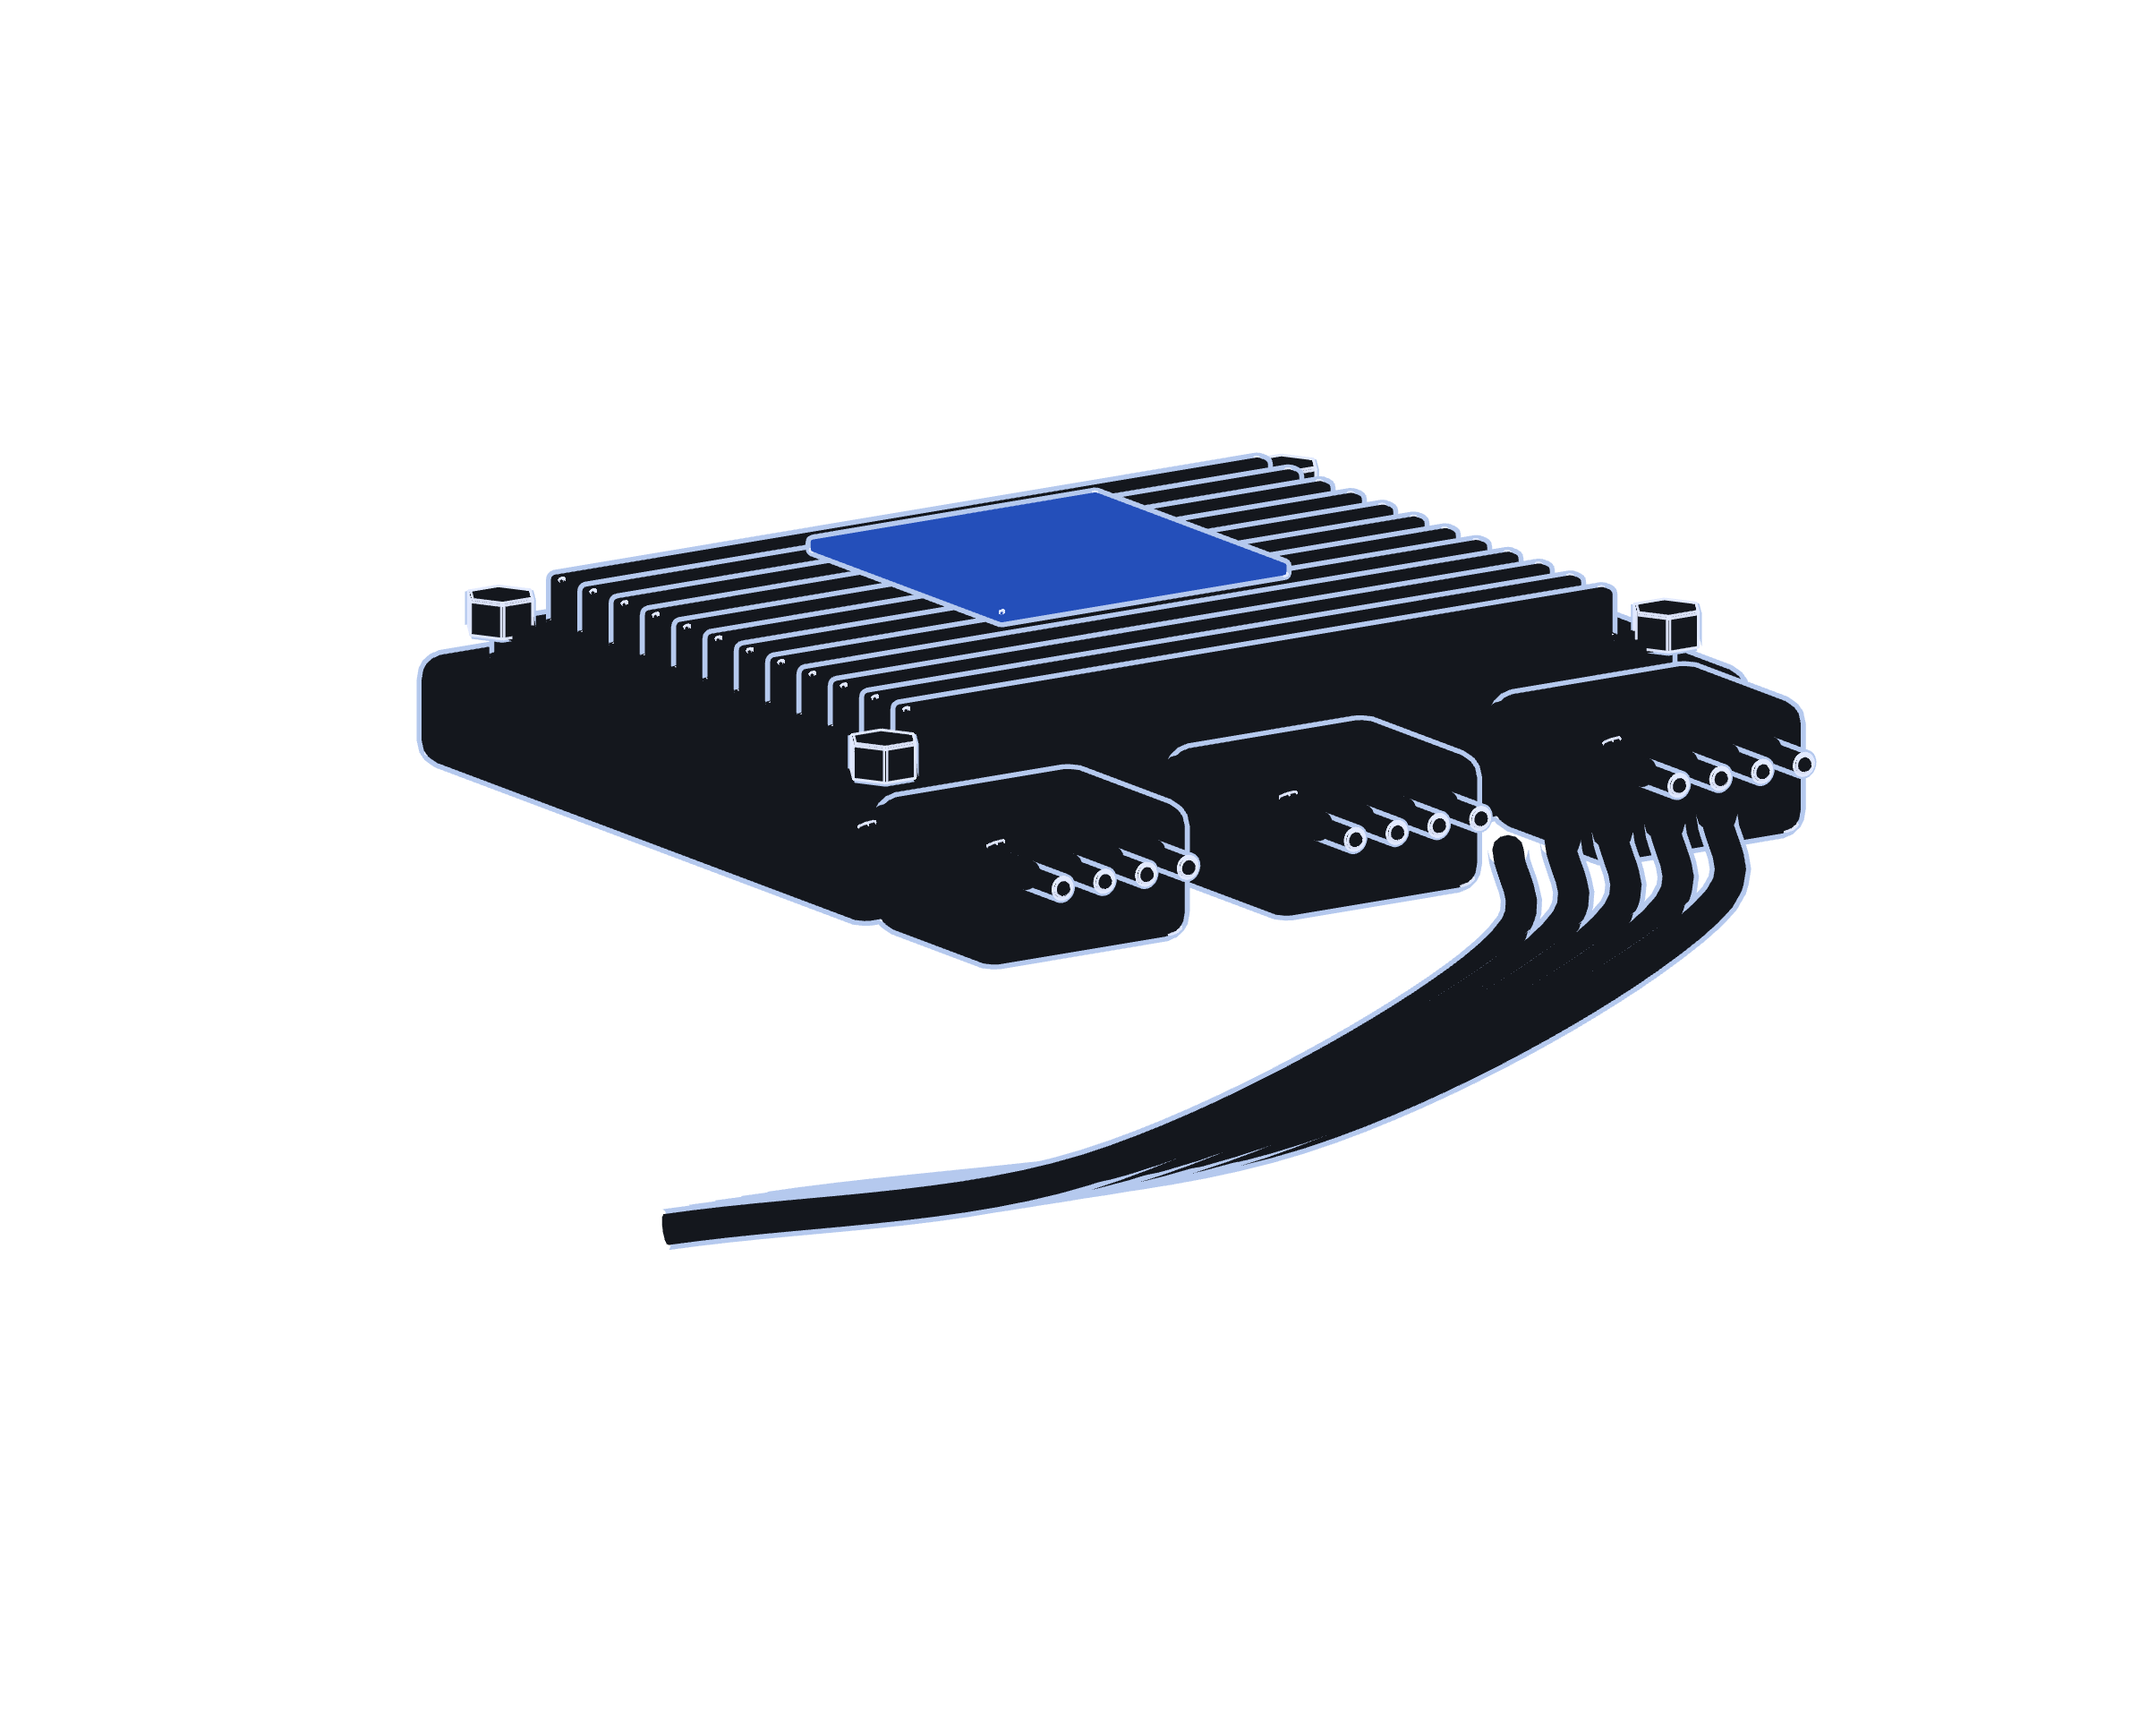
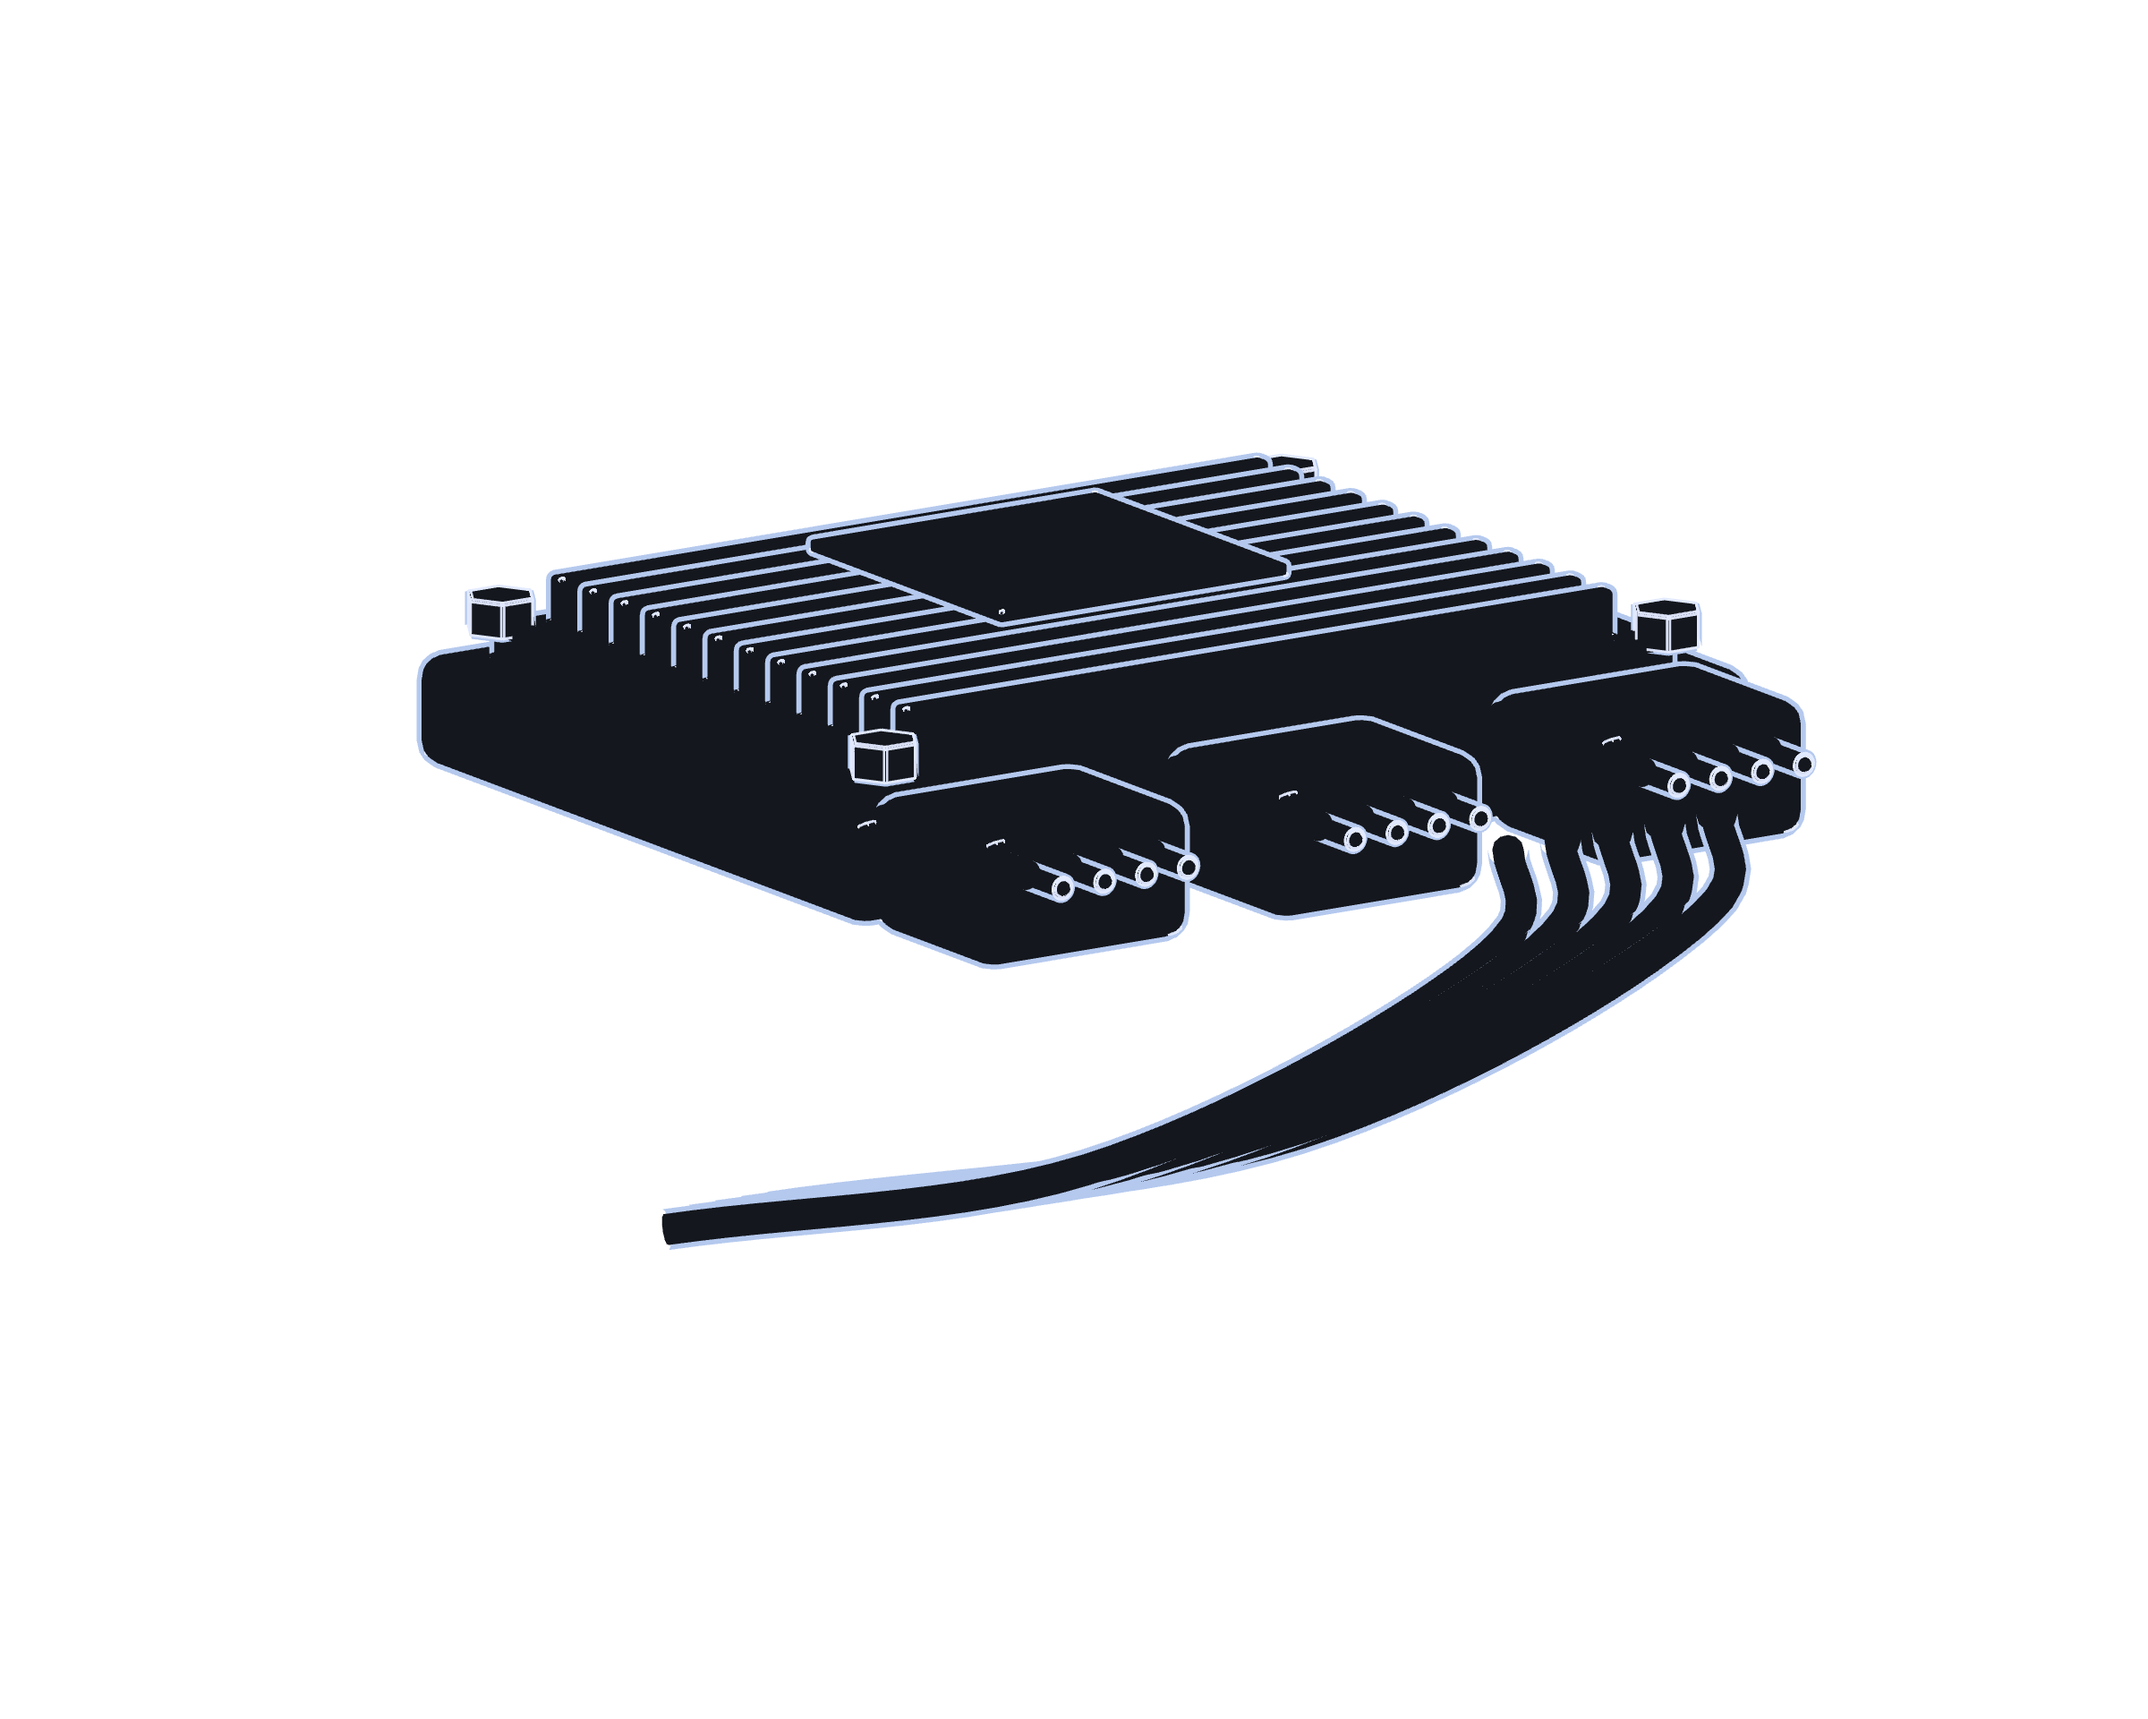
Speed up firing and refine engine line art

Changed region(s): [[0.375, 0.2812, 0.5938, 0.375]]

diff --git a/engine-drawing.js b/engine-drawing.js
@@ -97,8 +97,7 @@ class EngineDrawing {
     this.circle([x, y, z + length / 2], radius, "z", color, this.paper);
   }
   piston(p) {
-    const c = this.ctx,
-      s = Math.sin(p.angle),
+    const s = Math.sin(p.angle),
       co = Math.cos(p.angle);
     const local = (x, y, z) => [
       p.wrist[0] + co * x + s * y,
@@ -138,7 +137,7 @@ class EngineDrawing {
     for (const x of [-0.47, 0.47])
       this.path([local(x, -0.18, 0), local(x, 0.22, 0)], color);
     for (const h of [0.1, 0.16, 0.22]) this.path(ring(h), color);
-    this.path(ring(0.22), color, firing ? this.pulse : this.paper, 1.4, true);
+    this.path(ring(0.22), color, this.paper, 1.4, true);
     // Valve reliefs, lightly etched into the crown.
     for (const [x, z] of [
       [-0.19, -0.17],
@@ -155,11 +154,6 @@ class EngineDrawing {
       );
       this.path(pts, firing ? this.blue : this.faint);
     }
-    const label = this.project(local(0, 0.38, 0));
-    c.fillStyle = firing ? this.blue : this.ink;
-    c.font = "500 11px 'JetBrains Mono', monospace";
-    c.textAlign = "center";
-    c.fillText(String(p.number), ...label);
   }
   crank() {
     for (let i = 0; i < 5; i++) this.journal(0, 0, -2.24 + i * 1.12, 0.2, 0.28);
@@ -217,8 +211,66 @@ class EngineDrawing {
     }
   }
   shell() {
-    // Sparse section boundaries frame the mechanism without hiding its motion.
+    // Sectioned cylinder sleeves, cam housings and crankcase casting details.
+    // Keep the cutaway open so the rods and firing crowns remain visible.
     for (const side of [-1, 1]) {
+      const bankPoint = (x, y, z) => [
+        (x + side * y) / Math.SQRT2,
+        (y - side * x) / Math.SQRT2,
+        z,
+      ];
+      for (let i = 0; i < 4; i++) {
+        const z = -1.68 + i * 1.12 + side * 0.11;
+        // Only the rear half of each bore wall is retained in the cutaway.
+        for (const height of [0.95, 2.18]) {
+          const arc = Array.from({ length: 25 }, (_, j) => {
+            const angle = Math.PI + (j / 24) * Math.PI;
+            return bankPoint(
+              0.51 * Math.cos(angle),
+              height,
+              z + 0.51 * Math.sin(angle),
+            );
+          });
+          this.path(arc, this.faint);
+        }
+        for (const x of [-0.51, 0.51])
+          this.path([bankPoint(x, 0.95, z), bankPoint(x, 2.18, z)], this.faint);
+        // Coil wells and deck fasteners above the cut cylinder bank.
+        this.circle([side * 1.23, 2.15, z], 0.09, "y", this.faint);
+        this.circle([side * 1.23, 2.15, z], 0.045, "y", this.faint);
+        // Curved intake runner: paired contours, no opaque plenum blocking the pistons.
+        for (const offset of [-0.065, 0.065]) {
+          const runner = Array.from({ length: 17 }, (_, j) => {
+            const t = j / 16;
+            return [
+              side * (0.25 + 0.78 * t),
+              2.28 + 0.17 * Math.sin(t * Math.PI) - 0.12 * t,
+              z + offset,
+            ];
+          });
+          this.path(runner, this.faint);
+        }
+        // Cast ribs along the lower crankcase.
+        this.path(
+          [
+            [side * 0.48, -0.56, z],
+            [side * 0.75, -0.35, z],
+            [side * 0.87, 0.15, z],
+          ],
+          this.faint,
+        );
+      }
+      for (const x of [0.99, 1.43]) {
+        for (const dy of [0, 0.09])
+          this.path(
+            [
+              [side * x, 1.98 + dy, -2.2],
+              [side * x, 1.98 + dy, 2.2],
+            ],
+            this.faint,
+          );
+        this.circle([side * x, 2.025, -2.2], 0.07, "z", this.faint);
+      }
       const outline = [
         [side * 0.45, -0.5, -2.2],
         [side * 1.65, 1.55, -2.2],
@@ -254,6 +306,29 @@ class EngineDrawing {
       ],
       this.faint,
     );
+    // Front timing cover perimeter and crank pulley, with fastening points.
+    this.path(
+      [
+        [-1.45, 1.62, -2.28],
+        [-1.64, 1.4, -2.28],
+        [-0.77, -0.52, -2.28],
+        [-0.45, -0.67, -2.28],
+        [0.45, -0.67, -2.28],
+        [0.77, -0.52, -2.28],
+        [1.64, 1.4, -2.28],
+        [1.45, 1.62, -2.28],
+      ],
+      this.faint,
+    );
+    for (const x of [-1.4, -0.65, 0.65, 1.4])
+      this.circle(
+        [x, Math.abs(x) > 0.8 ? 1.4 : -0.4, -2.29],
+        0.045,
+        "z",
+        this.faint,
+      );
+    for (const r of [0.31, 0.38, 0.43])
+      this.circle([0, 0, -2.9], r, "z", this.faint);
   }
   draw() {
     const rect = this.canvas.getBoundingClientRect();
@@ -278,7 +353,6 @@ class EngineDrawing {
     this.ink = dark ? "#cbd2df" : "#374151";
     this.faint = dark ? "#424c60" : "#c1c9d6";
     this.blue = dark ? "#5488ff" : "#285be8";
-    this.pulse = dark ? "#17336a" : "#d6e4ff";
     this.scale = Math.min(this.w / 7.6, this.h / 5.4);
     if (this.mode === "engine") this.shell();
     this.crank();

diff --git a/styles.css b/styles.css
@@ -959,7 +959,7 @@ body[data-state="inspecting"] .assembly {
   object-fit: contain;
   user-select: none;
   pointer-events: none;
-  filter: drop-shadow(0 24px 22px #00000020);
+  filter: none;
 }
 .component-card.has-motion img {
   opacity: 0;
@@ -971,6 +971,7 @@ body[data-state="inspecting"] .assembly {
   height: calc(100% - 65px);
 }
 .showroom-halo {
+  display: none;
   position: absolute;
   width: 72%;
   height: 70%;

diff --git a/script.js b/script.js
@@ -134,10 +134,10 @@ function syncMechanisms() {
   const animate = !reducedMotion.matches && !document.hidden;
   assemblyDrawing.setSpeed(
     animate && (state === "running" || state === "redlining")
-      ? 2.2 + targetRpm / 1800
+      ? 8 + targetRpm / 650
       : 0,
   );
-  componentDrawing?.setSpeed(animate ? 2.8 : 0);
+  componentDrawing?.setSpeed(animate ? 10 : 0);
 }
 
 function loadImage(url) {

diff --git a/tools/engine-model.js b/tools/engine-model.js
@@ -19,7 +19,7 @@ const colors = {
 const mat = Object.fromEntries(
   Object.entries(colors).map(([name, color]) => [
     name,
-    new T.MeshBasicMaterial({ color: name === "accent" ? 0x244fba : 0x14171d }),
+    new T.MeshBasicMaterial({ color: 0x14171d }),
   ]),
 );
 const ink = new LineMaterial({
